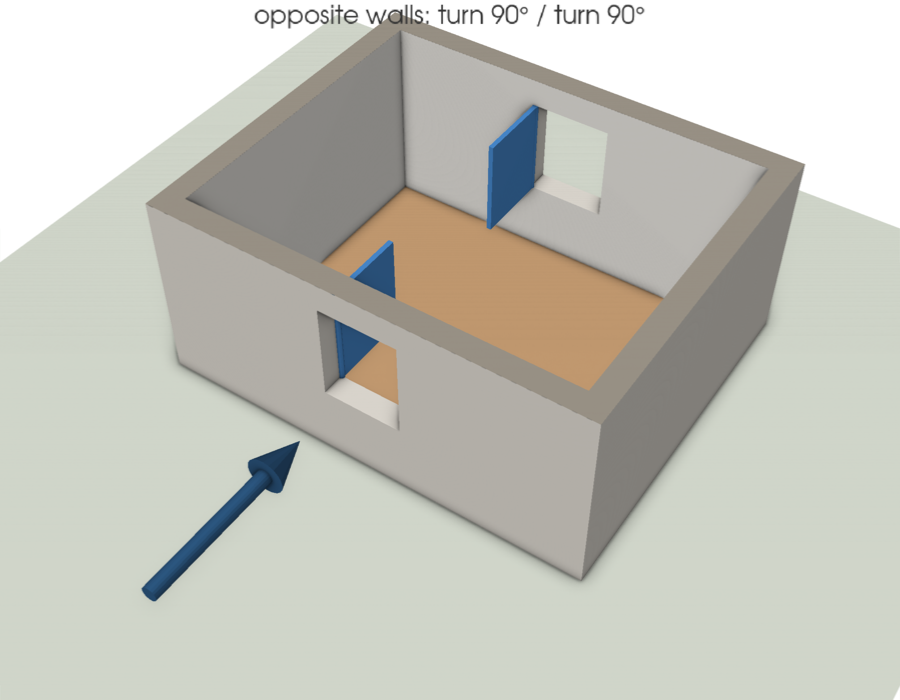
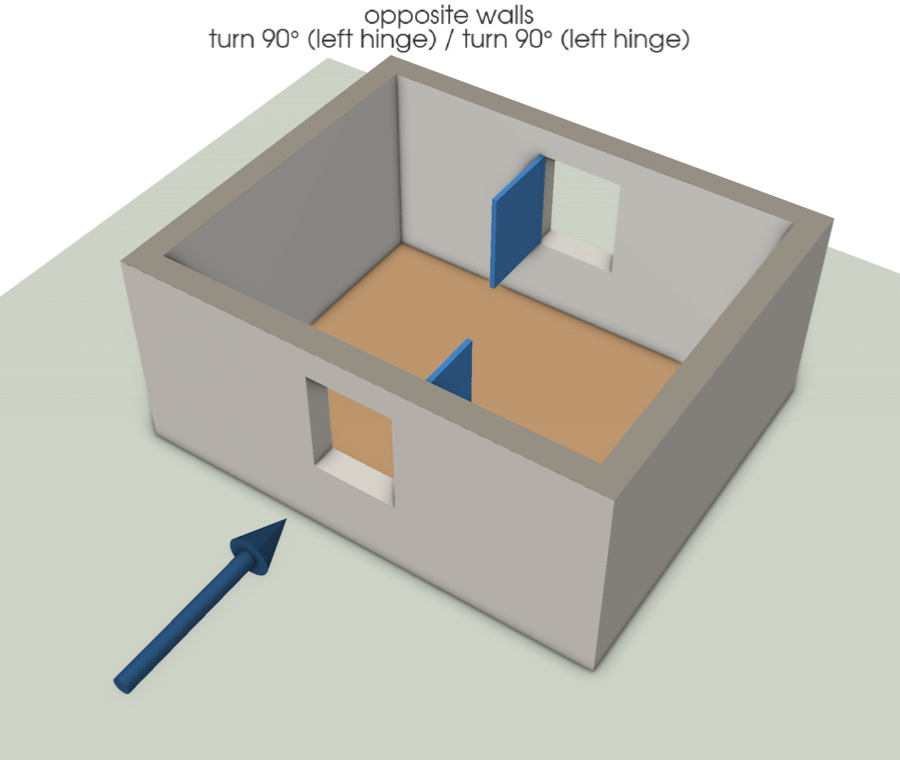
Add per-window hinge side setting (left/right, seen from inside)
- config: required window.hinge, validated
- windows: hinge point/rotation follow the hinge side in turn mode
- configs, render titles, README pictures updated
- tests for every wall/hinge combination; PLAN.md, README, log.md updated

Changed region(s): [[0.0, 0.0, 1.0, 0.93], [0.9956, 0.96, 1.0, 1.0]]

diff --git a/geometry/windows.py b/geometry/windows.py
@@ -7,10 +7,11 @@ Conventions (PLAN.md §1):
 - Origin at the inner south-west floor corner; x points east, y north, z up.
 - A window's x_m is its centre, measured along the wall from the west end
   (south/north walls) or the south end (west/east walls).
-- Each sash is a plate that turns about a solid hinge post: a vertical post on
-  the window's start side in turn mode, a horizontal post along the sill in
-  tilt mode. The post covers the plate's hinge edge, which avoids paper-thin
-  gaps between sash and wall that could not be meshed.
+- Each sash is a plate that opens into the room about a solid hinge post: a
+  vertical post on the hinge side in turn mode (`hinge: left|right`, seen from
+  inside the room facing the window), a horizontal post along the sill in tilt
+  mode. The post covers the plate's hinge edge, which avoids paper-thin gaps
+  between sash and wall that could not be meshed.
 """
 
 from __future__ import annotations
@@ -80,9 +81,23 @@ class PlacedWindow:
 
     @property
     def start(self) -> np.ndarray:
-        """Opening corner on the inner wall face, on the hinge side, at sill height."""
+        """Opening corner on the inner wall face, at the wall's start side (smaller x_m), at sill height."""
         offset = self.window.x_m - self.size.width_m / 2
         return self.wall.origin + self.wall.along * offset + UP * self.size.sill_height_m
+
+    @property
+    def hinge_at_end(self) -> bool:
+        """True if the turn hinge is on the opening's end side (larger x_m) rather than its start side."""
+        right = np.cross(UP, self.wall.inward)  # "right" for someone inside the room facing the window
+        towards_hinge = right if self.window.hinge == "right" else -right
+        return bool(towards_hinge @ self.wall.along > 0)
+
+    @property
+    def hinge_point(self) -> np.ndarray:
+        """A point on the rotation axis: the hinge-side bottom corner of the opening."""
+        if self.window.mode == "turn" and self.hinge_at_end:
+            return self.start + self.wall.along * self.size.width_m
+        return self.start  # tilt: the axis runs along the whole sill, so the start corner works
 
     @property
     def hinge_axis(self) -> np.ndarray:
@@ -93,7 +108,10 @@ class PlacedWindow:
         """Signed rotation about hinge_axis that opens the sash into the room."""
         # The sash edge opposite the hinge points along the wall (turn) or up (tilt);
         # pick the rotation direction that moves this edge towards the room.
-        free_edge = self.wall.along if self.window.mode == "turn" else UP
+        if self.window.mode == "turn":
+            free_edge = -self.wall.along if self.hinge_at_end else self.wall.along
+        else:
+            free_edge = UP
         sign = np.sign(np.cross(self.hinge_axis, free_edge) @ self.wall.inward)
         return float(sign * np.radians(self.window.angle_deg))
 
@@ -114,12 +132,12 @@ class PlacedWindow:
         return self._wall_box((0, self.size.width_m), (-half, half), (0, self.size.height_m))
 
     def sash_corners(self) -> np.ndarray:
-        return rotate(self.closed_sash_corners(), self.start, self.hinge_axis, self.rotation_rad)
+        return rotate(self.closed_sash_corners(), self.hinge_point, self.hinge_axis, self.rotation_rad)
 
     def hinge_post(self) -> tuple[np.ndarray, np.ndarray, float]:
         """Hinge post cylinder as (start point, axis vector with full length, radius)."""
         length = self.size.height_m if self.window.mode == "turn" else self.size.width_m
-        return self.start, self.hinge_axis * length, self.size.hinge_radius_m
+        return self.hinge_point, self.hinge_axis * length, self.size.hinge_radius_m
 
     def footprint_xy(self) -> np.ndarray:
         """Plan-view outline (x, y) of the open sash plus hinge post, as a convex polygon."""
@@ -132,7 +150,7 @@ class PlacedWindow:
         """True if `point` lies inside or on the open sash plate or its hinge post."""
         point = np.asarray(point, float)
         # Rotate the point back to the closed position and test the closed plate box.
-        p = rotate(point, self.start, self.hinge_axis, -self.rotation_rad)[0] - self.start
+        p = rotate(point, self.hinge_point, self.hinge_axis, -self.rotation_rad)[0] - self.start
         u, n, z = p @ self.wall.along, p @ self.wall.inward, p @ UP
         half = self.size.sash_thickness_m / 2
         in_plate = (

diff --git a/tests/test_windows.py b/tests/test_windows.py
@@ -5,28 +5,48 @@ from cfd.config import ConfigError, Window
 from geometry.windows import PlacedWindow, place_windows, walls
 
 
+def _placed(cfg, wall_name, window):
+    return PlacedWindow("window1", walls(cfg.room)[wall_name], window, cfg.window_size, cfg.room.wall_thickness_m)
+
+
 @pytest.mark.parametrize("wall_name", ["south", "north", "west", "east"])
 @pytest.mark.parametrize("mode, angle", [("turn", 90), ("turn", 20), ("tilt", 6)])
-def test_sash_opens_into_the_room(make_config, wall_name, mode, angle):
+@pytest.mark.parametrize("hinge", ["left", "right"])
+def test_sash_opens_into_the_room(make_config, wall_name, mode, angle, hinge):
     cfg = make_config()
     size = cfg.window_size
-    wall = walls(cfg.room)[wall_name]
-    pw = PlacedWindow("window1", wall, Window(2.0, mode, angle), size, cfg.room.wall_thickness_m)
+    pw = _placed(cfg, wall_name, Window(2.0, mode, angle, hinge))
 
-    inward = (pw.sash_corners() - wall.origin) @ wall.inward
+    inward = (pw.sash_corners() - pw.wall.origin) @ pw.wall.inward
     free_edge = size.width_m if mode == "turn" else size.height_m
     a = np.radians(angle)
     # The free edge of the sash swings into the room by free_edge * sin(angle).
     assert inward.max() == pytest.approx(free_edge * np.sin(a) + size.sash_thickness_m / 2 * np.cos(a))
 
 
-def test_turn_sash_hinges_on_the_start_side(make_config):
-    cfg = make_config(w1=(2.5, "turn", 90))
-    w1, _ = place_windows(cfg)
-    x = w1.sash_corners()[:, 0]
-    # Opened 90°, the sash stands next to the west edge of the opening (x = 2.0).
-    assert x.min() == pytest.approx(2.0 - cfg.window_size.sash_thickness_m / 2)
-    assert x.max() == pytest.approx(2.0 + cfg.window_size.sash_thickness_m / 2)
+# Window centred at x_m = 2.0 on a 1.0 m wide opening, so its edges are at 1.5 and 2.5 along the wall.
+# Seen from inside facing the wall, "right" is west on the south wall, east on the north wall,
+# south on the east wall and north on the west wall.
+@pytest.mark.parametrize(
+    "wall_name, hinge, edge",
+    [("south", "right", 1.5), ("south", "left", 2.5), ("north", "right", 2.5), ("north", "left", 1.5),
+     ("east", "right", 1.5), ("east", "left", 2.5), ("west", "right", 2.5), ("west", "left", 1.5)],
+)
+def test_turn_sash_stands_at_its_hinge_edge(make_config, wall_name, hinge, edge):
+    cfg = make_config()
+    pw = _placed(cfg, wall_name, Window(2.0, "turn", 90, hinge))
+    along = (pw.sash_corners() - pw.wall.origin) @ pw.wall.along
+    # Opened 90°, the sash stands perpendicular to the wall at the hinge edge.
+    half = cfg.window_size.sash_thickness_m / 2
+    assert along.min() == pytest.approx(edge - half)
+    assert along.max() == pytest.approx(edge + half)
+
+
+def test_hinge_side_does_not_change_a_tilted_sash(make_config):
+    cfg = make_config()
+    left = _placed(cfg, "south", Window(2.0, "tilt", 6, "left")).sash_corners()
+    right = _placed(cfg, "south", Window(2.0, "tilt", 6, "right")).sash_corners()
+    np.testing.assert_allclose(left, right)
 
 
 def test_window_must_fit_on_its_wall(make_config):
@@ -47,7 +67,12 @@ def test_closest_allowed_windows_on_same_wall_are_valid(make_config, angle):
 def test_sashes_near_a_shared_corner_collide(make_config):
     # Both sashes swing towards the south-east corner and meet there.
     with pytest.raises(ConfigError, match="collide"):
-        place_windows(make_config("adjacent_walls", w1=(4.3, "turn", 45), w2=(0.7, "turn", 45)))
+        place_windows(make_config("adjacent_walls", w1=(4.3, "turn", 45, "right"), w2=(0.7, "turn", 45, "right")))
+
+
+def test_hinge_side_can_avoid_a_collision(make_config):
+    # Same positions as above, but the south sash now swings away from the corner.
+    place_windows(make_config("adjacent_walls", w1=(4.3, "turn", 45, "left"), w2=(0.7, "turn", 45, "right")))
 
 
 def test_sashes_far_from_the_shared_corner_are_valid(make_config):

diff --git a/tests/test_generate.py b/tests/test_generate.py
@@ -15,24 +15,25 @@ ANGLES = {"turn": (15, 90), "tilt": (6, 6)}
 @pytest.mark.parametrize("layout", LAYOUTS)
 @pytest.mark.parametrize("modes", [("turn", "turn"), ("turn", "tilt"), ("tilt", "turn"), ("tilt", "tilt")])
 @pytest.mark.parametrize("angle_index", [0, 1])
-def test_model_has_one_air_volume_and_all_patches(make_config, layout, modes, angle_index):
+@pytest.mark.parametrize("hinges", [("left", "left"), ("right", "left")])
+def test_model_has_one_air_volume_and_all_patches(make_config, layout, modes, angle_index, hinges):
     x1, x2 = POSITIONS[layout]
-    m1, m2 = modes
-    cfg = make_config(layout, w1=(x1, m1, ANGLES[m1][angle_index]), w2=(x2, m2, ANGLES[m2][angle_index]))
+    (m1, m2), (h1, h2) = modes, hinges
+    cfg = make_config(layout, w1=(x1, m1, ANGLES[m1][angle_index], h1), w2=(x2, m2, ANGLES[m2][angle_index], h2))
     summary = generate(cfg, mesh=False)  # raises if the air volume or any patch is missing
     assert set(summary["surfaces_per_patch"]) == set(PATCHES)
 
 
-@pytest.mark.parametrize("mode, angle", [("turn", 35), ("tilt", 6)])
-def test_gmsh_rotation_matches_numpy(make_config, mode, angle):
-    cfg = make_config("adjacent_walls", w1=(1.5, mode, angle), w2=(2.0, mode, angle))
+@pytest.mark.parametrize("mode, angle, hinge", [("turn", 35, "left"), ("turn", 35, "right"), ("tilt", 6, "left")])
+def test_gmsh_rotation_matches_numpy(make_config, mode, angle, hinge):
+    cfg = make_config("adjacent_walls", w1=(1.5, mode, angle, hinge), w2=(2.0, mode, angle, hinge))
     gmsh.initialize()
     try:
         for pw in place_windows(cfg):
             corners = pw.closed_sash_corners()
             lo, hi = corners.min(axis=0), corners.max(axis=0)
             plate = gmsh.model.occ.addBox(*lo, *(hi - lo))
-            gmsh.model.occ.rotate([(3, plate)], *pw.start, *pw.hinge_axis, pw.rotation_rad)
+            gmsh.model.occ.rotate([(3, plate)], *pw.hinge_point, *pw.hinge_axis, pw.rotation_rad)
             gmsh.model.occ.synchronize()
             box = np.array(gmsh.model.getBoundingBox(3, plate))
             expected = pw.sash_corners()

diff --git a/geometry/render.py b/geometry/render.py
@@ -96,7 +96,7 @@ def add_case(plotter: pv.Plotter, cfg: CaseConfig, title: str) -> None:
     plotter.add_mesh(arrow, color=COLORS["wind"], **SURFACE)
     plotter.add_text(title, position="upper_edge", font_size=11, color="#333333")
 
-    plotter.camera.focal_point = (W / 2, D / 2 - 0.6, 0.4)
+    plotter.camera.focal_point = (W / 2, D / 2 - 0.6, 1.0)
     plotter.camera.position = (W / 2 + 6.0, D / 2 - 9.5, 11.5)  # from the south-east, above
     plotter.camera.up = (0, 0, 1)
     plotter.camera.view_angle = 30
@@ -113,12 +113,12 @@ def _add_lights(plotter: pv.Plotter, cfg: CaseConfig) -> None:
 
 def describe(cfg: CaseConfig) -> str:
     def window(w):
-        return f"{w.mode} {w.angle_deg:g}°"
+        return f"turn {w.angle_deg:g}° ({w.hinge} hinge)" if w.mode == "turn" else f"tilt {w.angle_deg:g}°"
 
-    return f"{cfg.layout.replace('_', ' ')}: {window(cfg.window1)} / {window(cfg.window2)}"
+    return f"{cfg.layout.replace('_', ' ')}\n{window(cfg.window1)} / {window(cfg.window2)}"
 
 
-def render(configs: list[CaseConfig], out: Path, panel_size=(900, 700)) -> None:
+def render(configs: list[CaseConfig], out: Path, panel_size=(900, 760)) -> None:
     plotter = pv.Plotter(off_screen=True, shape=(1, len(configs)), border=False,
                          window_size=(panel_size[0] * len(configs), panel_size[1]))
     plotter.set_background(COLORS["background"])

diff --git a/cfd/config.py b/cfd/config.py
@@ -15,6 +15,7 @@ import yaml
 
 LAYOUTS = ("same_wall", "opposite_walls", "adjacent_walls")
 MODES = ("turn", "tilt")
+HINGES = ("left", "right")  # hinge side of the turn sash, seen from inside the room facing the window
 # Allowed opening angles in degrees. Below the minimum the sash is almost closed
 # and the remaining gap would need extremely small mesh cells.
 ANGLE_LIMITS_DEG = {"turn": (5.0, 90.0), "tilt": (2.0, 15.0)}
@@ -46,6 +47,7 @@ class Window:
     x_m: float  # window centre, measured along the wall (PLAN.md §1)
     mode: str  # "turn" or "tilt"
     angle_deg: float
+    hinge: str  # "left" or "right", seen from inside the room; only changes the geometry in turn mode
 
 
 @dataclass(frozen=True)
@@ -141,6 +143,10 @@ def _check_values(cfg: CaseConfig) -> None:
     for name in ("window1", "window2"):
         window = getattr(cfg, name)
         require(window.mode in MODES, f"{name}.mode {window.mode!r}: must be 'turn' or 'tilt'")
+        require(
+            window.hinge in HINGES,
+            f"{name}.hinge {window.hinge!r}: must be 'left' or 'right' (seen from inside the room, facing the window)",
+        )
         lo, hi = ANGLE_LIMITS_DEG[window.mode]
         require(
             lo <= window.angle_deg <= hi,

diff --git a/tests/conftest.py b/tests/conftest.py
@@ -19,13 +19,15 @@ def default_dict() -> dict:
 def make_config(default_dict):
     """Build a CaseConfig from the default with a different layout and windows.
 
-    Windows are given as (x_m, mode, angle_deg).
+    Windows are given as (x_m, mode, angle_deg) or (x_m, mode, angle_deg, hinge);
+    the hinge defaults to "left".
     """
 
     def make(layout="opposite_walls", w1=(2.5, "turn", 90), w2=(2.5, "turn", 90)):
         data = dict(default_dict, layout=layout)
-        for name, (x, mode, angle) in (("window1", w1), ("window2", w2)):
-            data[name] = {"x_m": x, "mode": mode, "angle_deg": angle}
+        for name, window in (("window1", w1), ("window2", w2)):
+            x, mode, angle, hinge = (*window, "left") if len(window) == 3 else window
+            data[name] = {"x_m": x, "mode": mode, "angle_deg": angle, "hinge": hinge}
         return config_from_dict(data)
 
     return make

diff --git a/tests/test_config.py b/tests/test_config.py
@@ -32,12 +32,18 @@ def test_text_instead_of_number_is_an_error(default_dict):
     "mode, angle, ok", [("turn", 90, True), ("turn", 4, False), ("turn", 95, False), ("tilt", 6, True), ("tilt", 30, False)]
 )
 def test_angle_limits_depend_on_mode(default_dict, mode, angle, ok):
-    default_dict["window2"] = {"x_m": 2.5, "mode": mode, "angle_deg": angle}
+    default_dict["window2"] = {"x_m": 2.5, "mode": mode, "angle_deg": angle, "hinge": "left"}
     if ok:
         config_from_dict(default_dict)
     else:
         with pytest.raises(ConfigError, match="window2.angle_deg"):
             config_from_dict(default_dict)
+
+
+def test_unknown_hinge_is_an_error(default_dict):
+    default_dict["window1"]["hinge"] = "top"
+    with pytest.raises(ConfigError, match="window1.hinge 'top'"):
+        config_from_dict(default_dict)
 
 
 def test_unknown_layout_is_an_error(default_dict):

diff --git a/geometry/generate.py b/geometry/generate.py
@@ -70,7 +70,7 @@ def build_model(cfg: CaseConfig, placed: tuple[PlacedWindow, ...]) -> tuple[int,
     sashes = []
     for pw in placed:
         plate = _add_box(pw.closed_sash_corners())
-        occ.rotate([(3, plate)], *pw.start, *pw.hinge_axis, pw.rotation_rad)
+        occ.rotate([(3, plate)], *pw.hinge_point, *pw.hinge_axis, pw.rotation_rad)
         start, axis, radius = pw.hinge_post()
         sashes += [plate, occ.addCylinder(*start, *axis, radius)]
 

diff --git a/PLAN.md b/PLAN.md
@@ -11,7 +11,7 @@ Agreed 2026-10-14. Deadline: less than 6 weeks away; the exact date is still to 
 | Room (inside) | 5.0 m (x) × 4.0 m (y) × 2.5 m (z). Walls and roof are 0.3 m thick, the floor sits on the ground, and the building is 2.8 m tall. |
 | Axes | Origin at the inner south-west floor corner. x points east, y north, z up. |
 | Windows | Single Dreh-Kipp sash, 1.0 m wide × 1.25 m high, sill at 0.9 m. The sash is a 0.06 m solid plate that opens inward and turns about a solid hinge post (r = 4 cm). The post prevents mesh-breaking thin wedges at the hinge. |
-| Turn mode | Hinge on the window's west side (S/N walls) or south side (E/W walls). |
+| Turn mode | Hinge side set per window with `hinge: left \| right`, seen from inside the room facing the window. |
 | Tilt mode | Hinge at the bottom, fixed at 6°, which gives a ~13 cm gap at the top. |
 | Window position | `x_m` is the distance from the wall's west end (S/N walls) or south end (E/W walls) to the window centre. |
 | Layouts | `same_wall` uses the south wall twice. `opposite_walls` uses south + north. `adjacent_walls` uses south + east. |
@@ -28,6 +28,7 @@ Agreed 2026-10-14. Deadline: less than 6 weeks away; the exact date is still to 
 | `window1_x_m`, `window2_x_m` | 0.7 m to (wall length − 0.7 m), keeping 0.2 m clear of the corners |
 | `window1_mode`, `window2_mode` | `turn` or `tilt`, chosen independently (4 combinations) |
 | `window1_angle_deg`, `window2_angle_deg` | `turn`: 15–90°. `tilt`: fixed at 6°. |
+| `window1_hinge`, `window2_hinge` | `left` or `right`; only matters in turn mode. Whether the sweep samples it or keeps it fixed is decided after the benchmark. |
 | `wind_speed_ms` | 1–5 m/s |
 
 **Sampling:** Latin hypercube (`scipy.stats.qmc`) with fixed seeds. We aim for about 150 training runs plus a separately drawn test set of about 30 runs. The week-1 benchmark sets the final count.
@@ -110,4 +111,5 @@ Run two options on one coarse `opposite_walls` case and one coarse `same_wall` c
 ## 9. Still open
 
 - Exact deadline and deliverables.
+- Whether to sample the hinge side or keep it fixed. Decide after the benchmark, once the affordable number of runs is known.
 - Task split in the team. CFD runs only on Daniel's PC, so teammates could take visualizations, literature and documentation.

diff --git a/README.md b/README.md
@@ -19,7 +19,7 @@ This project runs automated **OpenFOAM** simulations of *Stoßlüften*: opening 
 
 - **Room:** 5 × 4 × 2.5 m with two Dreh-Kipp windows.
 - **Window layouts:** both windows on the same wall, on opposite walls, or on adjacent walls.
-- **Window opening:** each window is either turned open (angle 15–90°) or tilted (6°).
+- **Window opening:** each window is either turned open (angle 15–90°, hinged on the left or right) or tilted (6°).
 - **Wind:** comes from the south at 1–5 m/s and blows around the building.
 - **Tracer:** the room starts full of "old air" (a tracer value of 1). We measure how fast fresh outdoor air replaces it.
 - **Output:** each simulation adds one row to `results/summary.csv`, containing the inputs and results such as the fresh-air fraction over time and the time until 90 % of the air is replaced.
@@ -56,7 +56,7 @@ python -m pytest                                                              # 
 To try a different case:
 
 1. Copy `configs/default.yaml` or one of the files in `configs/examples/`.
-2. Change the values (layout, window positions, modes, angles, wind speed).
+2. Change the values (layout, window positions, modes, angles, hinge sides, wind speed).
 3. Pass the new file to the commands above.
 
 Invalid values stop with a message that says what to fix. `geometry.render` takes several config files at once and puts their pictures side by side.

diff --git a/log.md b/log.md
@@ -96,3 +96,13 @@ Template:
   - Replaced the wireframe screenshot in the README with a three-layout overview (`docs/images/layouts.png`) and added a picture of the default case.
   - Added PyVista and VTK to `requirements.txt` and added a test.
 - **Human decisions / review:** Daniel asked for more appealing pictures than the Gmsh wireframe screenshot.
+
+## 2026-10-14 — Hinge side setting
+- **Who:** Daniel
+- **AI tool / model:** Claude Code (Claude Opus 5.5)
+- **What the AI did:**
+  - Explained that the hinge side had been fixed by a coordinate convention. Seen from inside, south and east windows were hinged on the right and north and west windows on the left. The AI pointed out that this matters for the windward window, because a turned sash scoops or blocks the wind depending on its hinge side.
+  - Added a required `hinge: left | right` setting per window, seen from inside the room facing the window. It only changes the geometry in turn mode.
+  - Updated the configs, the geometry, the render titles and the tests (104 pass), including checks for each wall and hinge side and for a collision that a different hinge side avoids.
+  - Re-rendered the README pictures.
+- **Human decisions / review:** Daniel decided to add the hinge side as a setting. Whether the sweep samples it is decided after the benchmark.
